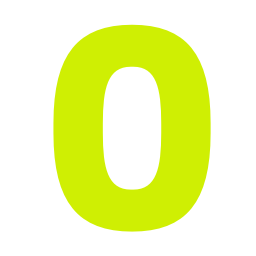
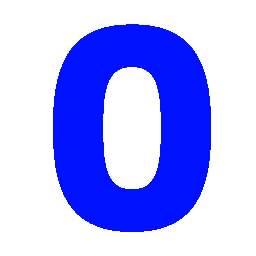
Minor style tweaks, and changed the placeholder art's color.

diff --git a/TonysTownSquares/tts/templates/game-board.template.html b/TonysTownSquares/tts/templates/game-board.template.html
@@ -16,7 +16,9 @@
         <a href="tonysTownSquares.vmix">Download vMix template</a>
         <md-button class="md-raised md-primary" ng-click="$ctrl.white()">Cut to white</md-button>
         <div>
-            <input ng-model="soloCut" ng-trim="false" ng-change="$ctrl.keypress(soloCut); soloCut=''" placeholder="Click to use hotkeys">
+            <div>
+                <input ng-model="soloCut" ng-trim="false" ng-change="$ctrl.keypress(soloCut); soloCut=''" placeholder="Click to use hotkeys">
+            </div>
             Cut to square:
             <div class="button-grid">
                 <button ng-repeat="i in $ctrl.NUM_PAD_ORDER" ng-click="$ctrl.solo($index)" ng-bind="i"></button>
